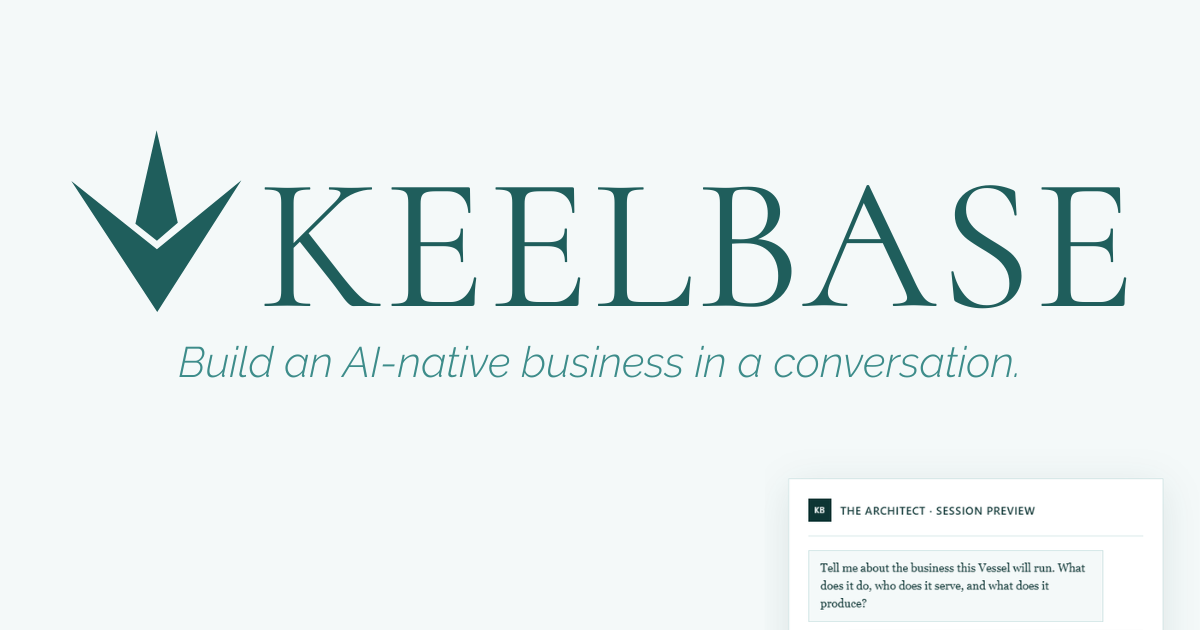
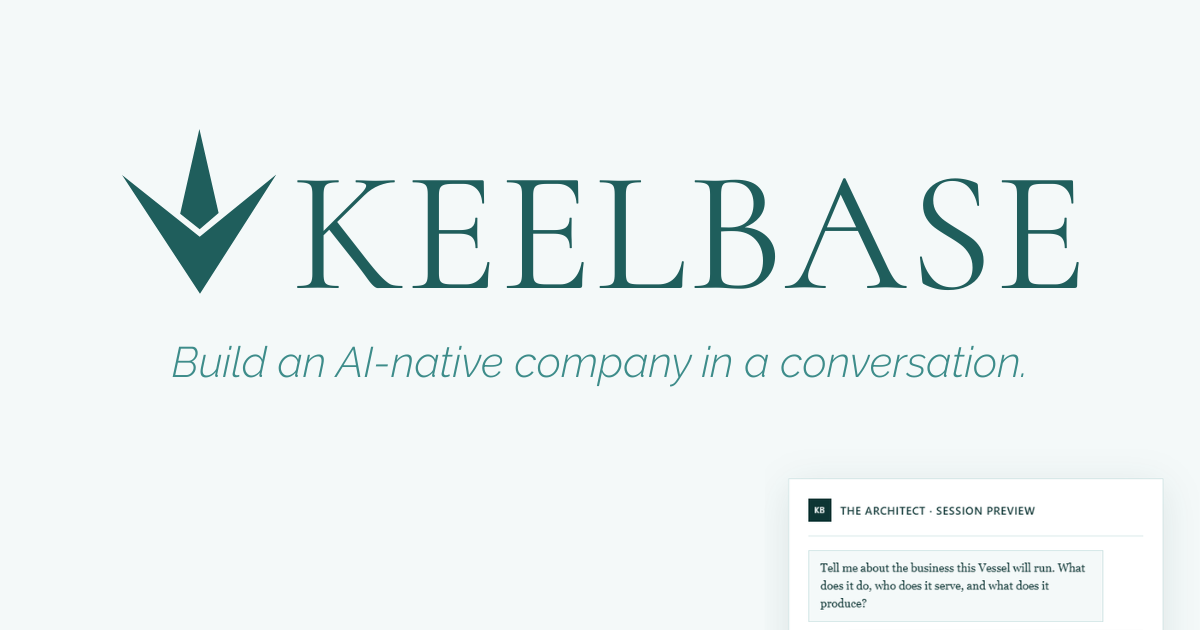
updated og image v3

Changed region(s): [[0.0617, 0.2111, 0.9558, 0.5127], [0.1233, 0.5429, 0.8633, 0.6032]]

diff --git a/app/layout.tsx b/app/layout.tsx
@@ -13,14 +13,14 @@ export const metadata: Metadata = {
     title: 'Keelbase — Build an AI-native business in a conversation',
     description: "Your business idea doesn't need a developer. It needs a Vessel.",
     siteName: 'Keelbase',
-    images: [{ url: '/og-image.png?v=2', width: 1200, height: 630 }],
+    images: [{ url: '/og-image.png?v=3', width: 1200, height: 630 }],
   },
   twitter: {
     card: 'summary_large_image',
     site: '@keelbase',
     title: 'Keelbase | Build an AI-native business in a conversation',
     description: "Your business idea doesn't need a developer. It needs a Vessel.",
-    images: ['/og-image.png?v=2'],
+    images: ['/og-image.png?v=3'],
   },
   robots: {
     index: true, follow: true,

diff --git a/app/blog/[slug]/page.tsx b/app/blog/[slug]/page.tsx
@@ -16,7 +16,7 @@ export async function generateMetadata({ params }: { params: Promise<{ slug: str
   const post = await getPostBySlug(slug)
   if (!post) return {}
   const url = `https://keelbase.io/blog/${slug}`
-  const image = post.cover || 'https://keelbase.io/og-image.png?v=2'
+  const image = post.cover || 'https://keelbase.io/og-image.png?v=3'
   return {
     title: `${post.title} — Keelbase Journal`,
     description: post.excerpt || 'An essay from Keelbase.',
